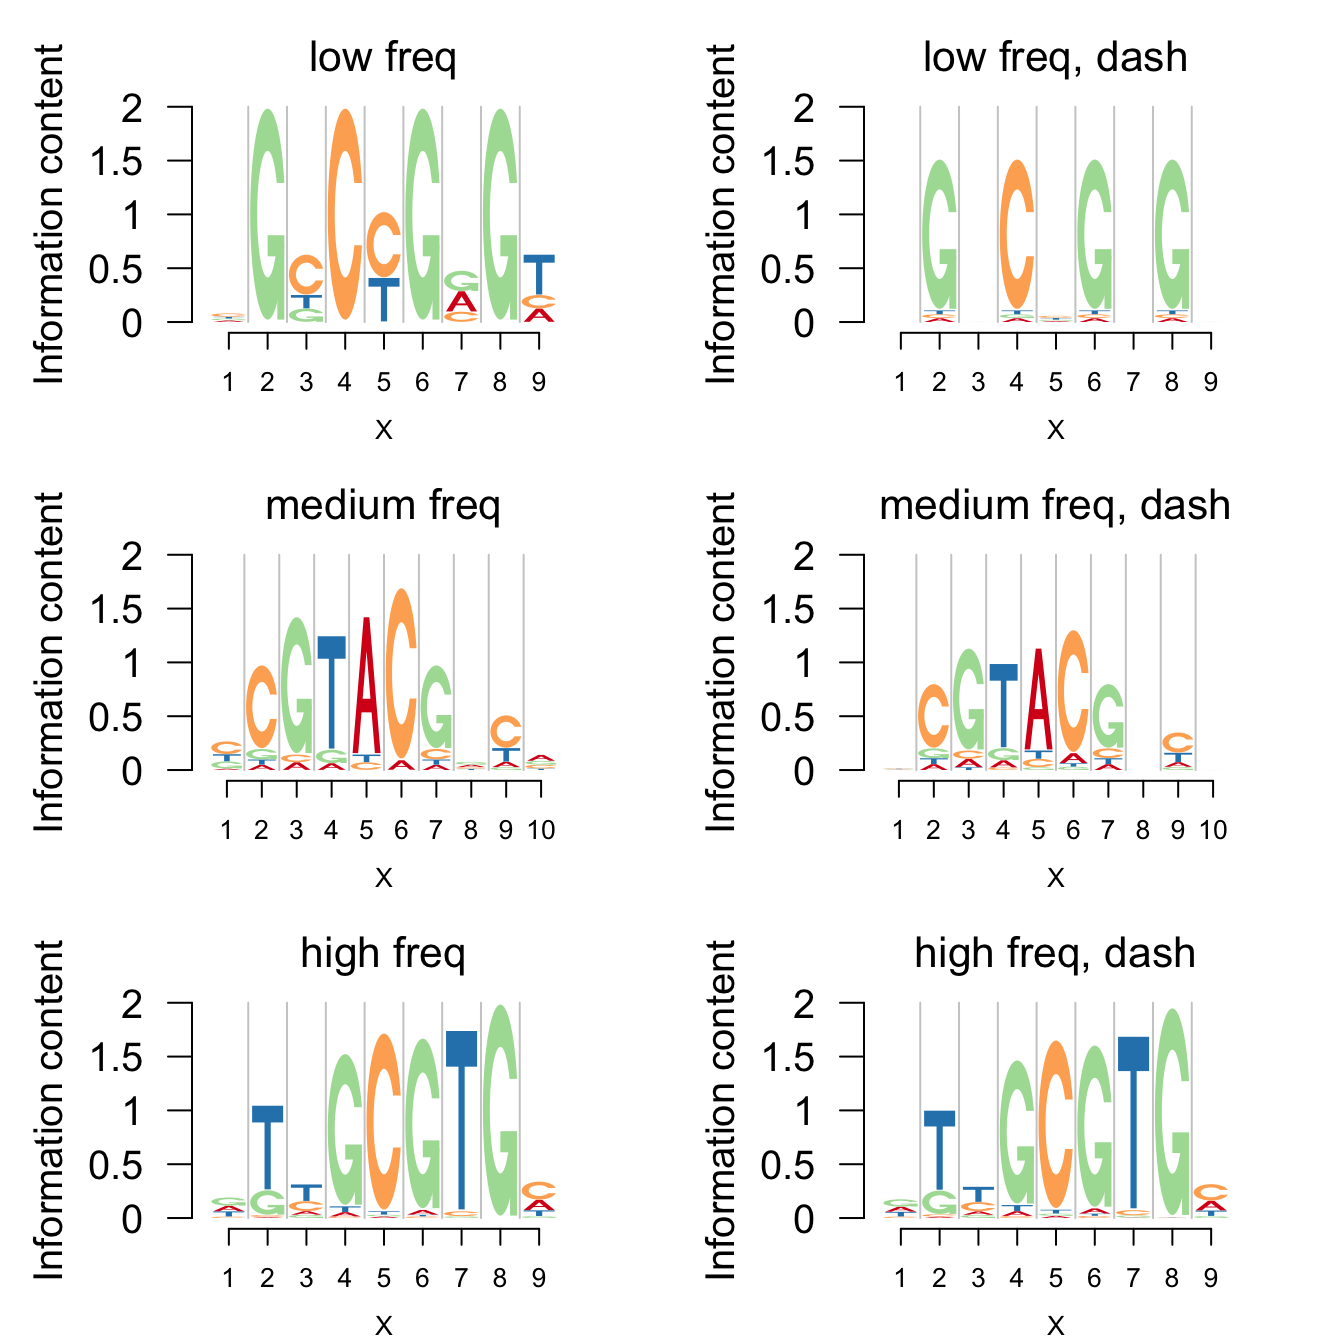
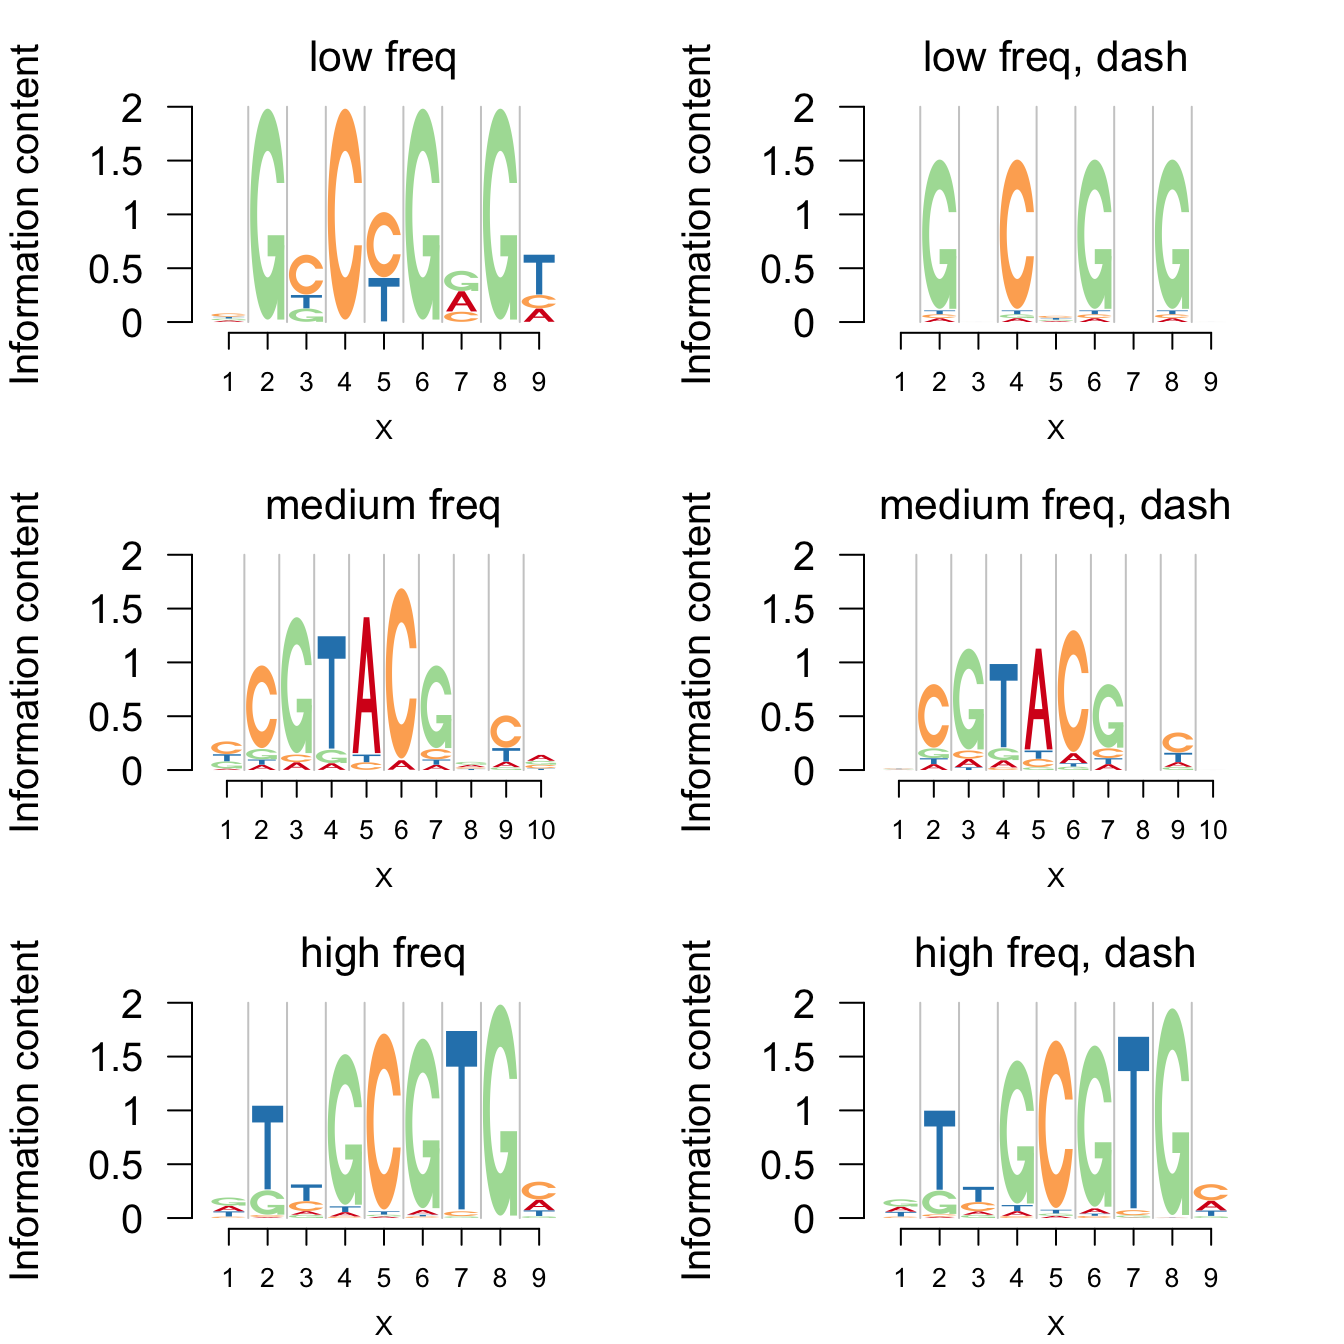
pushed tchanges to the dashtutor

diff --git a/docs/dashtutor.html b/docs/dashtutor.html
@@ -84,7 +84,8 @@ if (window.hljs && document.readyState && document.readyState === "complete") {
 <ul>
 <li><a href="#model-formulation">Model formulation</a></li>
 <li><a href="#default-parameters">Default parameters</a></li>
-<li><a href="#dash-examples">Dash examples</a></li>
+<li><a href="#examples-of-dash">Examples of dash</a></li>
+<li><a href="#dash-and-background-probability">Dash and background probability</a></li>
 <li><a href="#session-information">Session information</a></li>
 </ul>
 </div>
@@ -93,30 +94,31 @@ if (window.hljs && document.readyState && document.readyState === "complete") {
 shared across the workflowr files. -->
 <!-- Update knitr chunk options -->
 <!-- Insert the date the file was last updated -->
-<p><strong>Last updated:</strong> 2017-09-15</p>
+<p><strong>Last updated:</strong> 2017-09-17</p>
 <!-- Insert the code version (Git commit SHA1) if Git repository exists and R
  package git2r is installed -->
-<p><strong>Code version:</strong> 0de44dc</p>
+<p><strong>Code version:</strong> 45f4d02</p>
 <!-- Add your analysis here -->
-<p>Logo plot is based on the position weight matrix(PWM), which is transformed from the position frequency matrix(PFM). PFM consists of the counts for each base at each position. This is a typical example of compositional data, which is used to describe the constituents of discrete sample space.</p>
-<p>Suppose for a specific position of a TFBS, the compositional data is <span class="math display">\[ (A, C, G, T) : = (6, 1, 2, 1) \]</span> and one another case is <span class="math display">\[ (A, C, G, T) : = (600, 100, 200, 100). \]</span> And the background probability is assumed to be equal for the four bases. If we transform the counts data into PWM by using the sample proportion, then the estimated proportions for the four bases are the same in both cases. However, in the second case, we have total 1000 samples while only 10 samples in the first case. Hence, we would consider to shrink the estimates to the background probability more strongly in the first case than that in the second case, for the reason that the force of data is stronger in the second scenarios.</p>
+<p>Typically logo plots are used to represent the position weight matrix (PWM). However, the PWM is often generated from underlying position frequency matrix (PFM). PFM stores the compositional data - the frequencies of the symbols at each position. Given a PFM matrix however, we also have knowledge of the scale of the frequencies for each position. This additional information can be used to get a better logo plot representation compared to the usual PWM-based logo plots.</p>
+<p>Suppose for a specific position in a sequence, the compositional data is <span class="math display">\[ (A, C, G, T) : = (6, 1, 2, 1) \]</span> and in another case, it is <span class="math display">\[ (A, C, G, T) : = (600, 100, 200, 100). \]</span>. We assume that the background probability is equal for the four bases. If we transform the positional frequencies into PWM by taking the sample proportion, then the estimated PWM would be same for the two cases and would correspond to the same logo plot representation. However, in the second case, we have a total frequency of 1000 for all symbols while for the first case, it is only 10. Hence, it makes sense to shrink the PWM estimate to the background probability more strongly in the first case than that in the second case.</p>
+<p>This is what we accomplish in an adaptive fashion using <code>dash</code> (Dirichlet Adaptive Shrinkage). We discuss the model formulation next.</p>
 <div id="model-formulation" class="section level2">
 <h2>Model formulation</h2>
-<p>To address these questions, we propose Dirichlet adaptive shrinkage(dash) for compositional data. Assume that there are <span class="math inline">\(L\)</span> constituents in the compositional mix. <span class="math inline">\(L\)</span> equals <span class="math inline">\(4\)</span> (corresponding to A,C, G and T bases) for the transcription factor data and <span class="math inline">\(20\)</span> corresponding to the amino acids for the protein sequence data.</p>
-<p>Suppose there are <span class="math inline">\(L\)</span> categories and <span class="math inline">\(n\)</span> compositional samples. Here, <span class="math inline">\(n\)</span> represents the number of positions for a TF. We model these compositional counts vectors as follows</p>
+<p>Assume that there are <span class="math inline">\(L\)</span> constituents in the compositional mix. <span class="math inline">\(L\)</span> equals <span class="math inline">\(4\)</span> (corresponding to A,C, G and T bases) for the DNa sequence motif data and <span class="math inline">\(20\)</span> corresponding to the amino acids for the protein sequence data.</p>
+<p>Suppose there are <span class="math inline">\(L\)</span> categories and <span class="math inline">\(n\)</span> positions. We model these compositional counts vectors as follows</p>
 <p><span class="math display">\[ (c_{n1}, c_{n2}, \cdots, c_{nL}) \sim Mult \left ( c_{n+} : p_{n1}, p_{n2}, \cdots, p_{nL} \right ) \]</span></p>
-<p>where <span class="math inline">\(c_{n+}\)</span> is the total frequency of the different constituents of the compositional data observed for the <span class="math inline">\(n\)</span> th base. <span class="math inline">\(p_{nl}\)</span> here represents the compositional probabilities such that</p>
+<p>where <span class="math inline">\(c_{n+}\)</span> is the total frequency of the different constituents of the compositional data observed for the <span class="math inline">\(n\)</span> th base. <span class="math inline">\(p_{nl}\)</span> here represents the compositional probability for the <span class="math inline">\(l\)</span> th base in the position <span class="math inline">\(n\)</span>. We have</p>
 <p><span class="math display">\[ p_{nl} &gt;= 0 \hspace {1 cm} \sum_{l=1}^{L} p_{nl} = 1 \]</span></p>
-<p>We then choose the Dirichlet prior distribution on the <span class="math inline">\((p_{n1}, p_{n2}, \cdots, p_{nL})\)</span>. In order to achieve the adaptive shrinkage property, we assume a mixture of known Dirichlet priors, each having mean same as the background mean but with varying amounts of concentration, along with unknown mixture proportions to be estimated from the data. <span class="math display">\[ \left ( p_{n1}, p_{n2}, \cdots, p_{nL} \right ) : = \sum_{k=1}^{K} \pi_{k} Dir \left (\alpha_{k} \mu_{k1}, \alpha_{k} \mu_{k2}, \cdots, \alpha_{k} \mu_{kL} \right ) \hspace {1 cm} \alpha_{k} &gt; 0 \hspace{1 cm} \sum_{l=1}^{L} \mu_{kl} = 1 \]</span> We assume a prior of <span class="math inline">\(\pi_{k}\)</span> to be Dirichlet</p>
+<p>We choose the Dirichlet prior distribution on the compositional probability vector <span class="math inline">\((p_{n1}, p_{n2}, \cdots, p_{nL})\)</span>. In order to perform adaptive shrinkage, we assume a mixture of known Dirichlet priors, each having mean to be the background mean probability vector ( <em>{1}, </em>{2}, , _{L} ), but with varying amounts of concentration, which need to be estimated along with the unknown mixture proportions from the data. <span class="math display">\[ \left ( p_{n1}, p_{n2}, \cdots, p_{nL} \right ) : = \sum_{k=1}^{K} \pi_{k} Dir \left (\alpha_{k} \mu_{1}, \alpha_{k} \mu_{2}, \cdots, \alpha_{k} \mu_{L} \right ) \hspace {1 cm} \alpha_{k} &gt; 0 \hspace{1 cm} \sum_{l=1}^{L} \mu_{l} = 1 \]</span> We assume a prior of <span class="math inline">\(\pi_{k}\)</span> to be Dirichlet</p>
 <p><span class="math display">\[ f(\pi) : = \prod_{k=1}^{K} {\pi_{k}}^{\lambda_{k}-1} \]</span></p>
 </div>
 <div id="default-parameters" class="section level2">
 <h2>Default parameters</h2>
-<p>We choose a default set of <span class="math inline">\(\alpha_{k}\)</span> to be <span class="math inline">\((Inf, 100, 50, 20, 10, 2, 1, 0.1, 0.01)\)</span>. In this case <span class="math inline">\(\alpha_{k}=Inf\)</span> corresponds essentially to point mass at the prior means, and then the subsequent choices of <span class="math inline">\(\alpha_{k}\)</span> have lower degree of concentration. $_{k} = $ corresponds to the most uniform scenario, whereas <span class="math inline">\(\alpha_{k} &lt; 1\)</span> correspond to cases with probability masses at the edges of the simplex but with the mean at the prior mean. These components would help to direct the points close to the corners towards the corners and away from the center, resulting in clearer separation of the points closer to the mean with the ones away from it.</p>
-<p>We choose the prior amount of shrinkage of <span class="math inline">\(\pi_{k}\)</span>, namely <span class="math inline">\(\lambda_{k}\)</span> to be <span class="math inline">\(\left( 10, 1, 1, 1, \cdots, 1 \right )\)</span>.</p>
+<p>We choose a default set of <span class="math inline">\(\alpha_{k}\)</span> to be <span class="math inline">\((Inf, 100, 50, 20, 10, 2, 1, 0.1, 0.01)\)</span>. In this case <span class="math inline">\(\alpha_{k}=Inf\)</span> corresponds essentially to point mass at the prior mean or background mean ( <em>{1}, </em>{2}, , _{L} ), and then the subsequent choices of <span class="math inline">\(\alpha_{k}\)</span> have lower degree of concentration. <span class="math inline">\(\alpha_{k} = 1\)</span> corresponds to the most uniform scenario, whereas <span class="math inline">\(\alpha_{k} &lt; 1\)</span> correspond to cases with probability masses at the edges of the simplex but with the mean at the prior mean. The latter components would direct the points close to the corners towards the corners and away from the center, resulting in clearer separation of the points closer to the mean with the ones away from it.</p>
+<p>We choose the default prior amount of shrinkage of <span class="math inline">\(\pi_{k}\)</span>, namely <span class="math inline">\(\lambda_{k}\)</span> to be <span class="math inline">\(\left( 1, 1, 1, 1, \cdots, 1 \right )\)</span>. The user may want to increase the weight on the first term (corresponding to ( _{k} = Inf ) ) to enforce stronger shrinkage.</p>
 </div>
-<div id="dash-examples" class="section level2">
-<h2>Dash examples</h2>
+<div id="examples-of-dash" class="section level2">
+<h2>Examples of dash</h2>
 <p>We apply dash to PFMs with small, medium and high total frequencies(<span class="math inline">\(c_{n+}\)</span>). The total frequencies in the three cases are 5,20 and 114. Firstly, the logo plots are compared and then negative logo plot.</p>
 <p>Logo plots:</p>
 <pre class="r"><code>library(Logolas)
@@ -159,7 +161,8 @@ logomaker(pfm1,
           frame_width = 1,
           newpage = F,
           yscale_change = F,
-          pop_name = &#39;low freq&#39;)
+          pop_name = &#39;low freq&#39;,
+          control = list(gap_xlab = 3))
 seekViewport(paste0(&#39;plotlogo&#39;,2))
 pfm1dash=t(dash(t(pfm1),optmethod = &#39;mixEM&#39;)$posmean)
 rownames(pfm1dash)=c(&#39;A&#39;,&#39;C&#39;,&#39;G&#39;,&#39;T&#39;)
@@ -169,7 +172,8 @@ logomaker(pfm1dash,
           frame_width = 1,
           newpage=F,
           yscale_change = F,
-          pop_name = &#39;low freq, dash&#39;)
+          pop_name = &#39;low freq, dash&#39;,
+          control = list(gap_xlab = 3))
 
 seekViewport(paste0(&quot;plotlogo&quot;, 3))
 logomaker(pfm2,
@@ -177,7 +181,8 @@ logomaker(pfm2,
           frame_width = 1,
           newpage = F,
           yscale_change = F,
-          pop_name = &#39;medium freq&#39;)
+          pop_name = &#39;medium freq&#39;,
+          control = list(gap_xlab = 3))
 seekViewport(paste0(&#39;plotlogo&#39;,4))
 pfm2dash=t(dash(t(pfm2),optmethod = &#39;mixEM&#39;)$posmean)
 rownames(pfm2dash)=c(&#39;A&#39;,&#39;C&#39;,&#39;G&#39;,&#39;T&#39;)
@@ -187,7 +192,8 @@ logomaker(pfm2dash,
           frame_width = 1,
           newpage=F,
           yscale_change = F,
-          pop_name = &#39;medium freq, dash&#39;)
+          pop_name = &#39;medium freq, dash&#39;,
+          control = list(gap_xlab = 3))
 
 seekViewport(paste0(&quot;plotlogo&quot;, 5))
 logomaker(pfm3,
@@ -195,7 +201,8 @@ logomaker(pfm3,
           frame_width = 1,
           newpage = F,
           yscale_change = F,
-          pop_name = &#39;high freq&#39;)
+          pop_name = &#39;high freq&#39;,
+          control = list(gap_xlab = 3))
 seekViewport(paste0(&#39;plotlogo&#39;,6))
 pfm3dash=t(dash(t(pfm3),optmethod = &#39;mixEM&#39;)$posmean)
 rownames(pfm3dash)=c(&#39;A&#39;,&#39;C&#39;,&#39;G&#39;,&#39;T&#39;)
@@ -205,9 +212,10 @@ logomaker(pfm3dash,
           frame_width = 1,
           newpage=F,
           yscale_change = F,
-          pop_name = &#39;high freq, dash&#39;)</code></pre>
+          pop_name = &#39;high freq, dash&#39;,
+          control = list(gap_xlab = 3))</code></pre>
 <p><img src="figure/dashtutor.Rmd/unnamed-chunk-1-1.png" width="672" style="display: block; margin: auto;" /></p>
-<p>Negative logo plots:</p>
+<p>The corresponding negative Logolas plots are given below.</p>
 <pre class="r"><code>grid.newpage()
 layout.rows &lt;- 3
 layout.cols &lt;- 2
@@ -232,7 +240,8 @@ nlogomaker(pfm1,
           color_profile = color_profile,
           frame_width = 1,
           newpage = F,
-          pop_name = &#39;low freq&#39;)
+          pop_name = &#39;low freq&#39;,
+          control = list(gap_xlab = 3))
 
 seekViewport(paste0(&#39;plotlogo&#39;,2))
 pfm1dash=t(dash(t(pfm1),optmethod = &#39;mixEM&#39;)$posmean)
@@ -243,7 +252,8 @@ nlogomaker(pfm1dash,
           color_profile = color_profile,
           frame_width = 1,
           newpage=F,
-          pop_name = &#39;low freq, dash&#39;)
+          pop_name = &#39;low freq, dash&#39;,
+          control = list(gap_xlab = 3))
 
 seekViewport(paste0(&quot;plotlogo&quot;, 3))
 nlogomaker(pfm2,
@@ -251,7 +261,8 @@ nlogomaker(pfm2,
           color_profile = color_profile,
           frame_width = 1,
           newpage = F,
-          pop_name = &#39;medium freq&#39;)
+          pop_name = &#39;medium freq&#39;,
+          control = list(gap_xlab = 3))
 seekViewport(paste0(&#39;plotlogo&#39;,4))
 pfm2dash=t(dash(t(pfm2),optmethod = &#39;mixEM&#39;)$posmean)
 rownames(pfm2dash)=c(&#39;A&#39;,&#39;C&#39;,&#39;G&#39;,&#39;T&#39;)
@@ -261,7 +272,8 @@ nlogomaker(pfm2dash,
           logoheight = &#39;log_odds&#39;,
           frame_width = 1,
           newpage=F,
-          pop_name = &#39;medium freq, dash&#39;)
+          pop_name = &#39;medium freq, dash&#39;,
+          control = list(gap_xlab = 3))
 
 seekViewport(paste0(&quot;plotlogo&quot;, 5))
 nlogomaker(pfm3,
@@ -269,7 +281,8 @@ nlogomaker(pfm3,
           color_profile = color_profile,
           frame_width = 1,
           newpage = F,
-          pop_name = &#39;high freq&#39;)
+          pop_name = &#39;high freq&#39;,
+          control = list(gap_xlab = 3))
 seekViewport(paste0(&#39;plotlogo&#39;,6))
 pfm3dash=t(dash(t(pfm3),optmethod = &#39;mixEM&#39;)$posmean)
 rownames(pfm3dash)=c(&#39;A&#39;,&#39;C&#39;,&#39;G&#39;,&#39;T&#39;)
@@ -279,29 +292,20 @@ nlogomaker(pfm3dash,
           color_profile = color_profile,
           frame_width = 1,
           newpage=F,
-          pop_name = &#39;high freq, dash&#39;)</code></pre>
+          pop_name = &#39;high freq, dash&#39;,
+          control = list(gap_xlab = 3))</code></pre>
 <p><img src="figure/dashtutor.Rmd/unnamed-chunk-2-1.png" width="672" style="display: block; margin: auto;" /></p>
+</div>
+<div id="dash-and-background-probability" class="section level2">
+<h2>Dash and background probability</h2>
 <p>The default background probability is uniform for each compositional class. User could also specify the background probability in the functions including <code>dash</code>,<code>logomaker</code>,<code>nlogomaker</code>.</p>
 <p>Here, we present the comparisons of logo plots and negative logo plots from 4 different PWMs of one PFM generated in the following way:</p>
-<table>
-<thead>
-<tr class="header">
-<th>1</th>
-<th align="center">2</th>
-</tr>
-</thead>
-<tbody>
-<tr class="odd">
-<td>same bg, no dash</td>
-<td align="center">same bg, dash</td>
-</tr>
-<tr class="even">
-<td>varying bg, no dash</td>
-<td align="center">varying bg, dash</td>
-</tr>
-</tbody>
-</table>
-<p>Logo plots:</p>
+<ul>
+<li>uniform background probability for all positions + no dash</li>
+<li>uniform background probability for all positions + dash</li>
+<li>non-uniform and specified background probability + no dash</li>
+<li>non-uniform and specified background probability + dash</li>
+</ul>
 <pre class="r"><code>bg=c(0.3141, 0.1859, 0.1859, 0.3141)
 grid.newpage()
 layout.rows &lt;- 2
@@ -327,7 +331,8 @@ logomaker(pfm2,
           frame_width = 1,
           newpage = F,
           yscale_change = F,
-          pop_name = &#39;same bg, no dash&#39;)
+          pop_name = &#39;same bg, no dash&#39;,
+          control = list(gap_xlab = 3))
 
 seekViewport(paste0(&quot;plotlogo&quot;, 2))
 logomaker(pfm2dash,
@@ -335,7 +340,8 @@ logomaker(pfm2dash,
           frame_width = 1,
           newpage = F,
           yscale_change = F,
-          pop_name = &#39;same bg, dash&#39;)
+          pop_name = &#39;same bg, dash&#39;,
+          control = list(gap_xlab = 3))
 
 
 seekViewport(paste0(&quot;plotlogo&quot;, 3))
@@ -345,7 +351,8 @@ logomaker(pfm2,
           frame_width = 1,
           newpage = F,
           yscale_change = F,
-          pop_name = &#39;varying bg, no dash&#39;)
+          pop_name = &#39;varying bg, no dash&#39;,
+          control = list(gap_xlab = 3))
 
 pfm2dashbg=t(dash(t(pfm2),optmethod = &#39;mixEM&#39;,mode = bg)$posmean)
 rownames(pfm2dashbg)=c(&#39;A&#39;,&#39;C&#39;,&#39;G&#39;,&#39;T&#39;)
@@ -358,7 +365,8 @@ logomaker(pfm2dashbg,
           frame_width = 1,
           newpage = F,
           yscale_change = F,
-          pop_name = &#39;varying bg, dash&#39;)</code></pre>
+          pop_name = &#39;varying bg, dash&#39;,
+          control = list(gap_xlab = 3))</code></pre>
 <p><img src="figure/dashtutor.Rmd/unnamed-chunk-3-1.png" width="672" style="display: block; margin: auto;" /></p>
 <p>Negative logo plots:</p>
 <pre class="r"><code>grid.newpage()
@@ -388,7 +396,8 @@ nlogomaker(pfm2,
           color_profile = color_profile,
           frame_width = 1,
           newpage = F,
-          pop_name = &#39;same bg, no dash&#39;)
+          pop_name = &#39;same bg, no dash&#39;,
+          control = list(gap_xlab = 3))
 
 seekViewport(paste0(&quot;plotlogo&quot;, 2))
 nlogomaker(pfm2dash,
@@ -396,7 +405,8 @@ nlogomaker(pfm2dash,
           color_profile = color_profile,
           frame_width = 1,
           newpage = F,
-          pop_name = &#39;same bg, dash&#39;)
+          pop_name = &#39;same bg, dash&#39;,
+          control = list(gap_xlab = 3))
 
 
 seekViewport(paste0(&quot;plotlogo&quot;, 3))
@@ -406,7 +416,8 @@ nlogomaker(pfm2,
           color_profile = color_profile,
           frame_width = 1,
           newpage = F,
-          pop_name = &#39;varying bg, no dash&#39;)
+          pop_name = &#39;varying bg, no dash&#39;,
+          control = list(gap_xlab = 3))
 
 pfm2dashbg=t(dash(t(pfm2),optmethod = &#39;mixEM&#39;,mode = bg)$posmean)
 rownames(pfm2dashbg)=c(&#39;A&#39;,&#39;C&#39;,&#39;G&#39;,&#39;T&#39;)
@@ -419,7 +430,8 @@ nlogomaker(pfm2dashbg,
           color_profile = color_profile,
           frame_width = 1,
           newpage = F,
-          pop_name = &#39;varying bg, dash&#39;)</code></pre>
+          pop_name = &#39;varying bg, dash&#39;,
+          control = list(gap_xlab = 3))</code></pre>
 <p><img src="figure/dashtutor.Rmd/unnamed-chunk-4-1.png" width="672" style="display: block; margin: auto;" /></p>
 </div>
 <div id="session-information" class="section level2">
